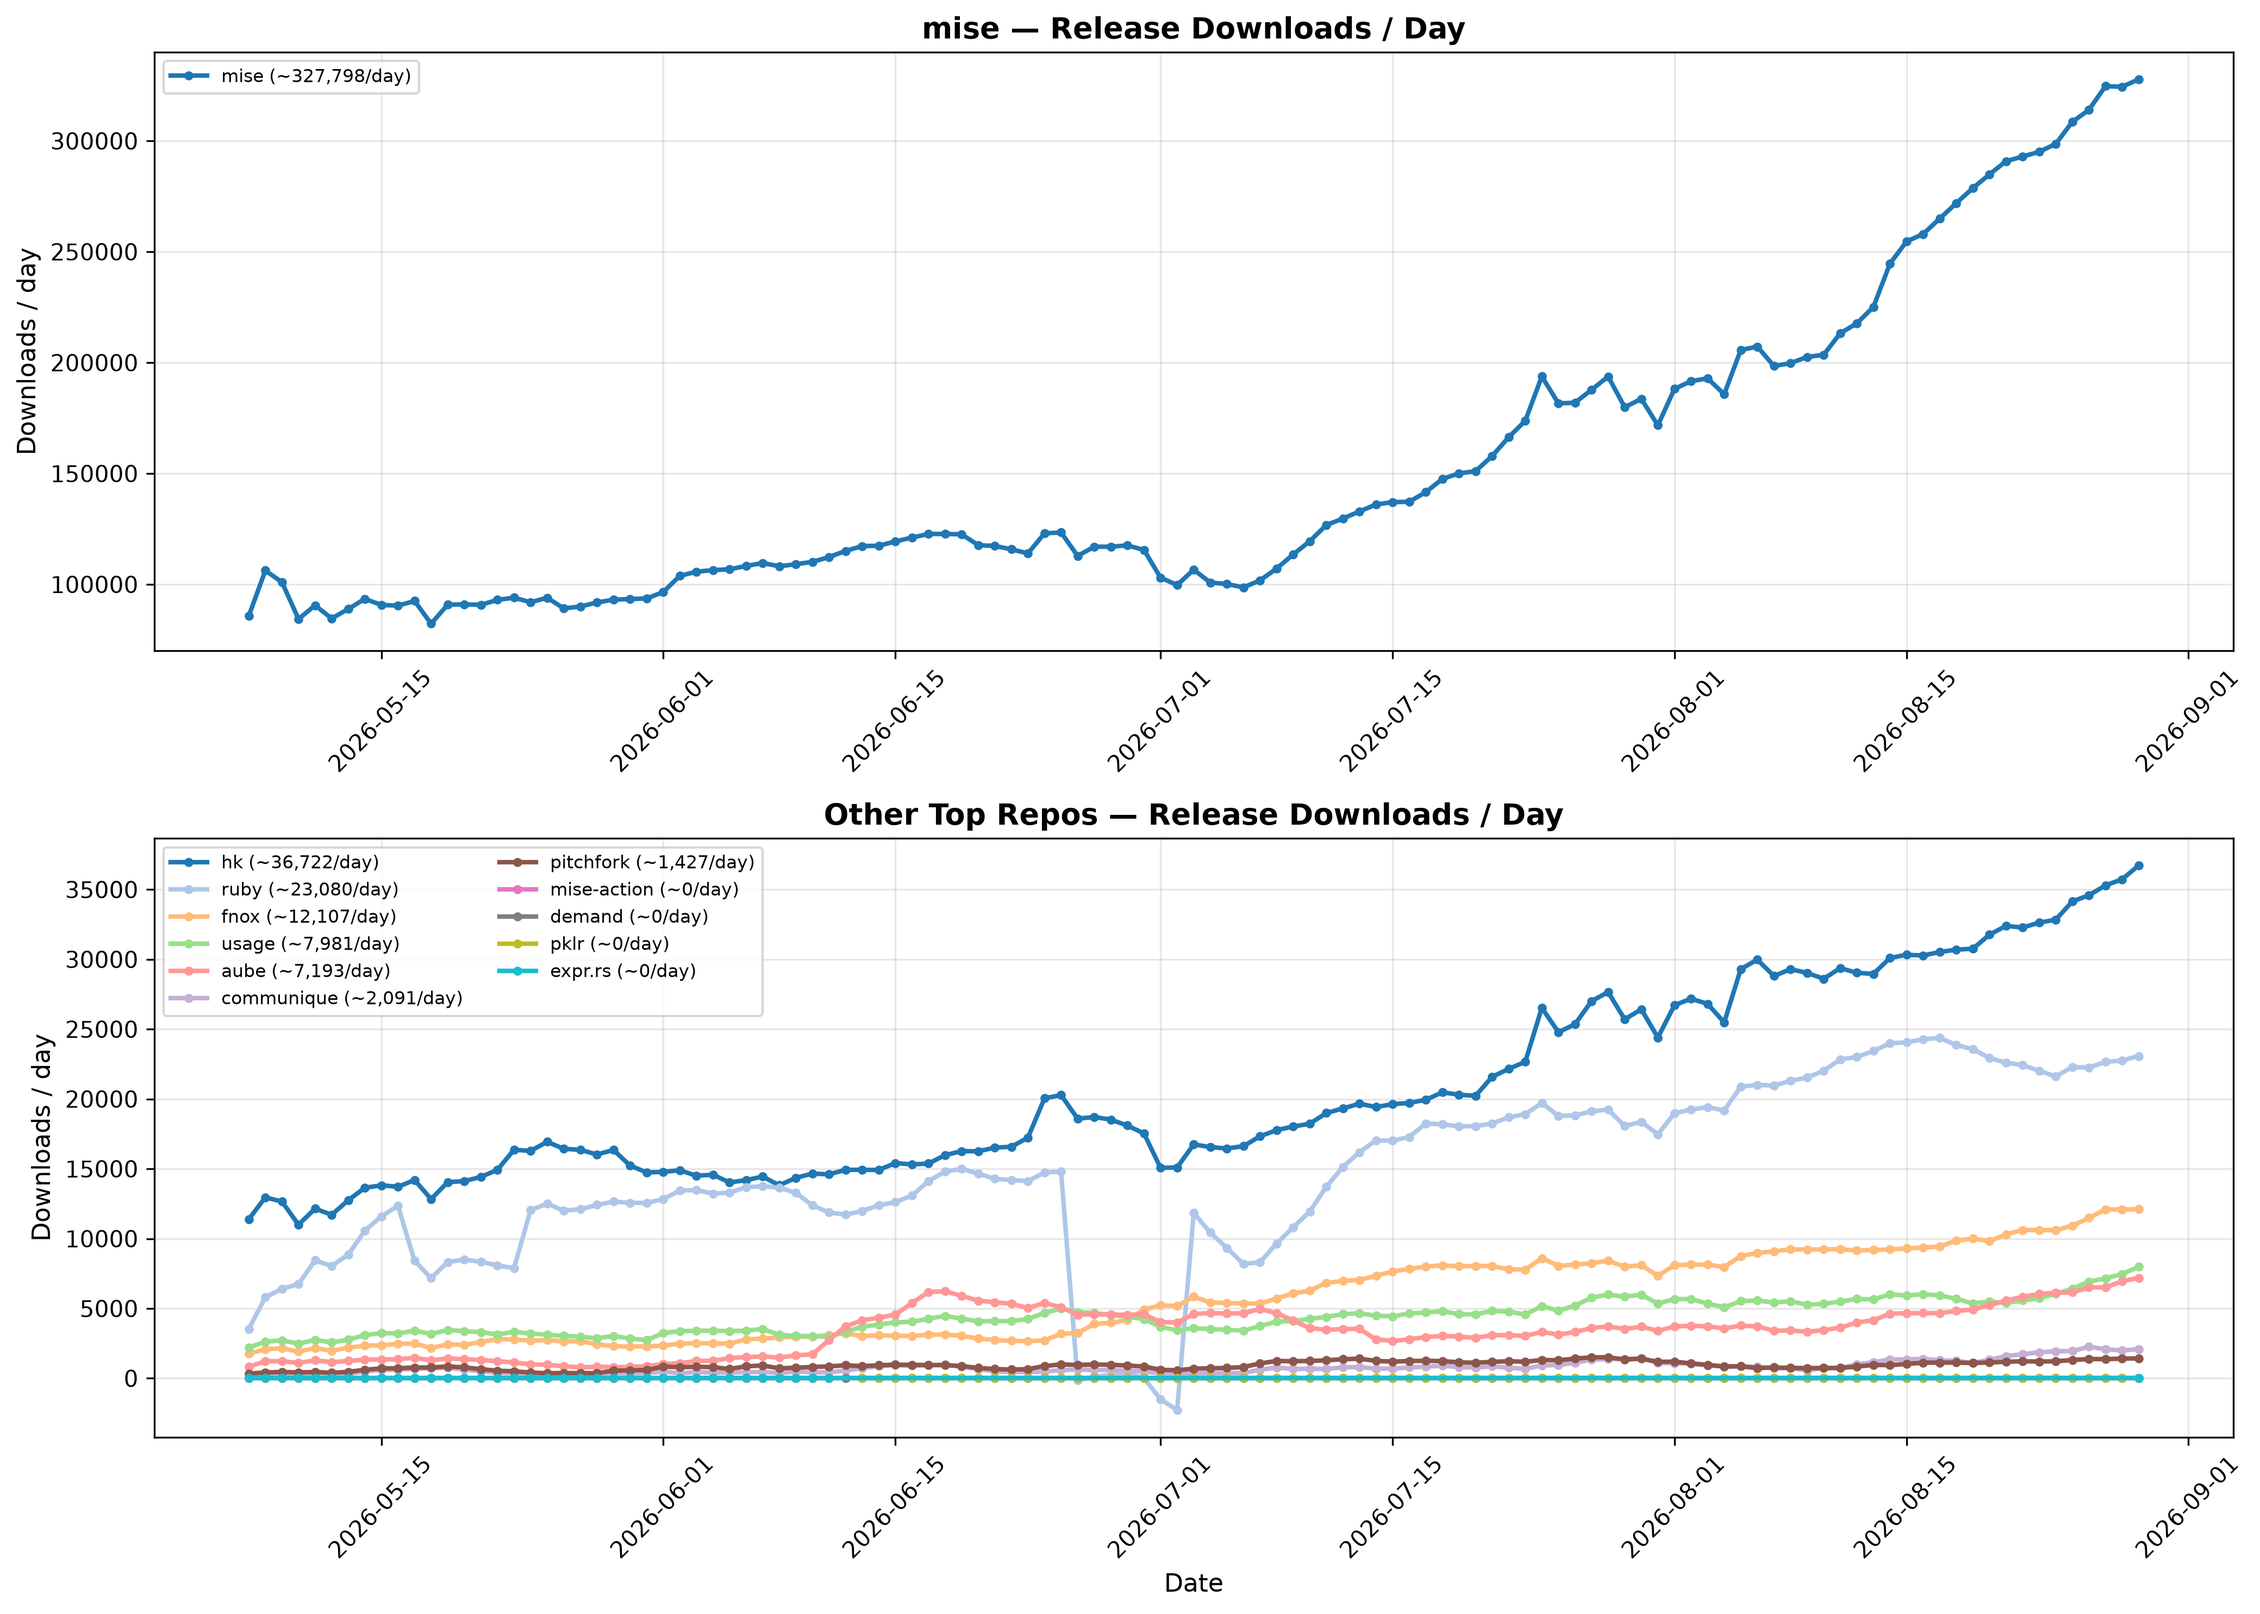
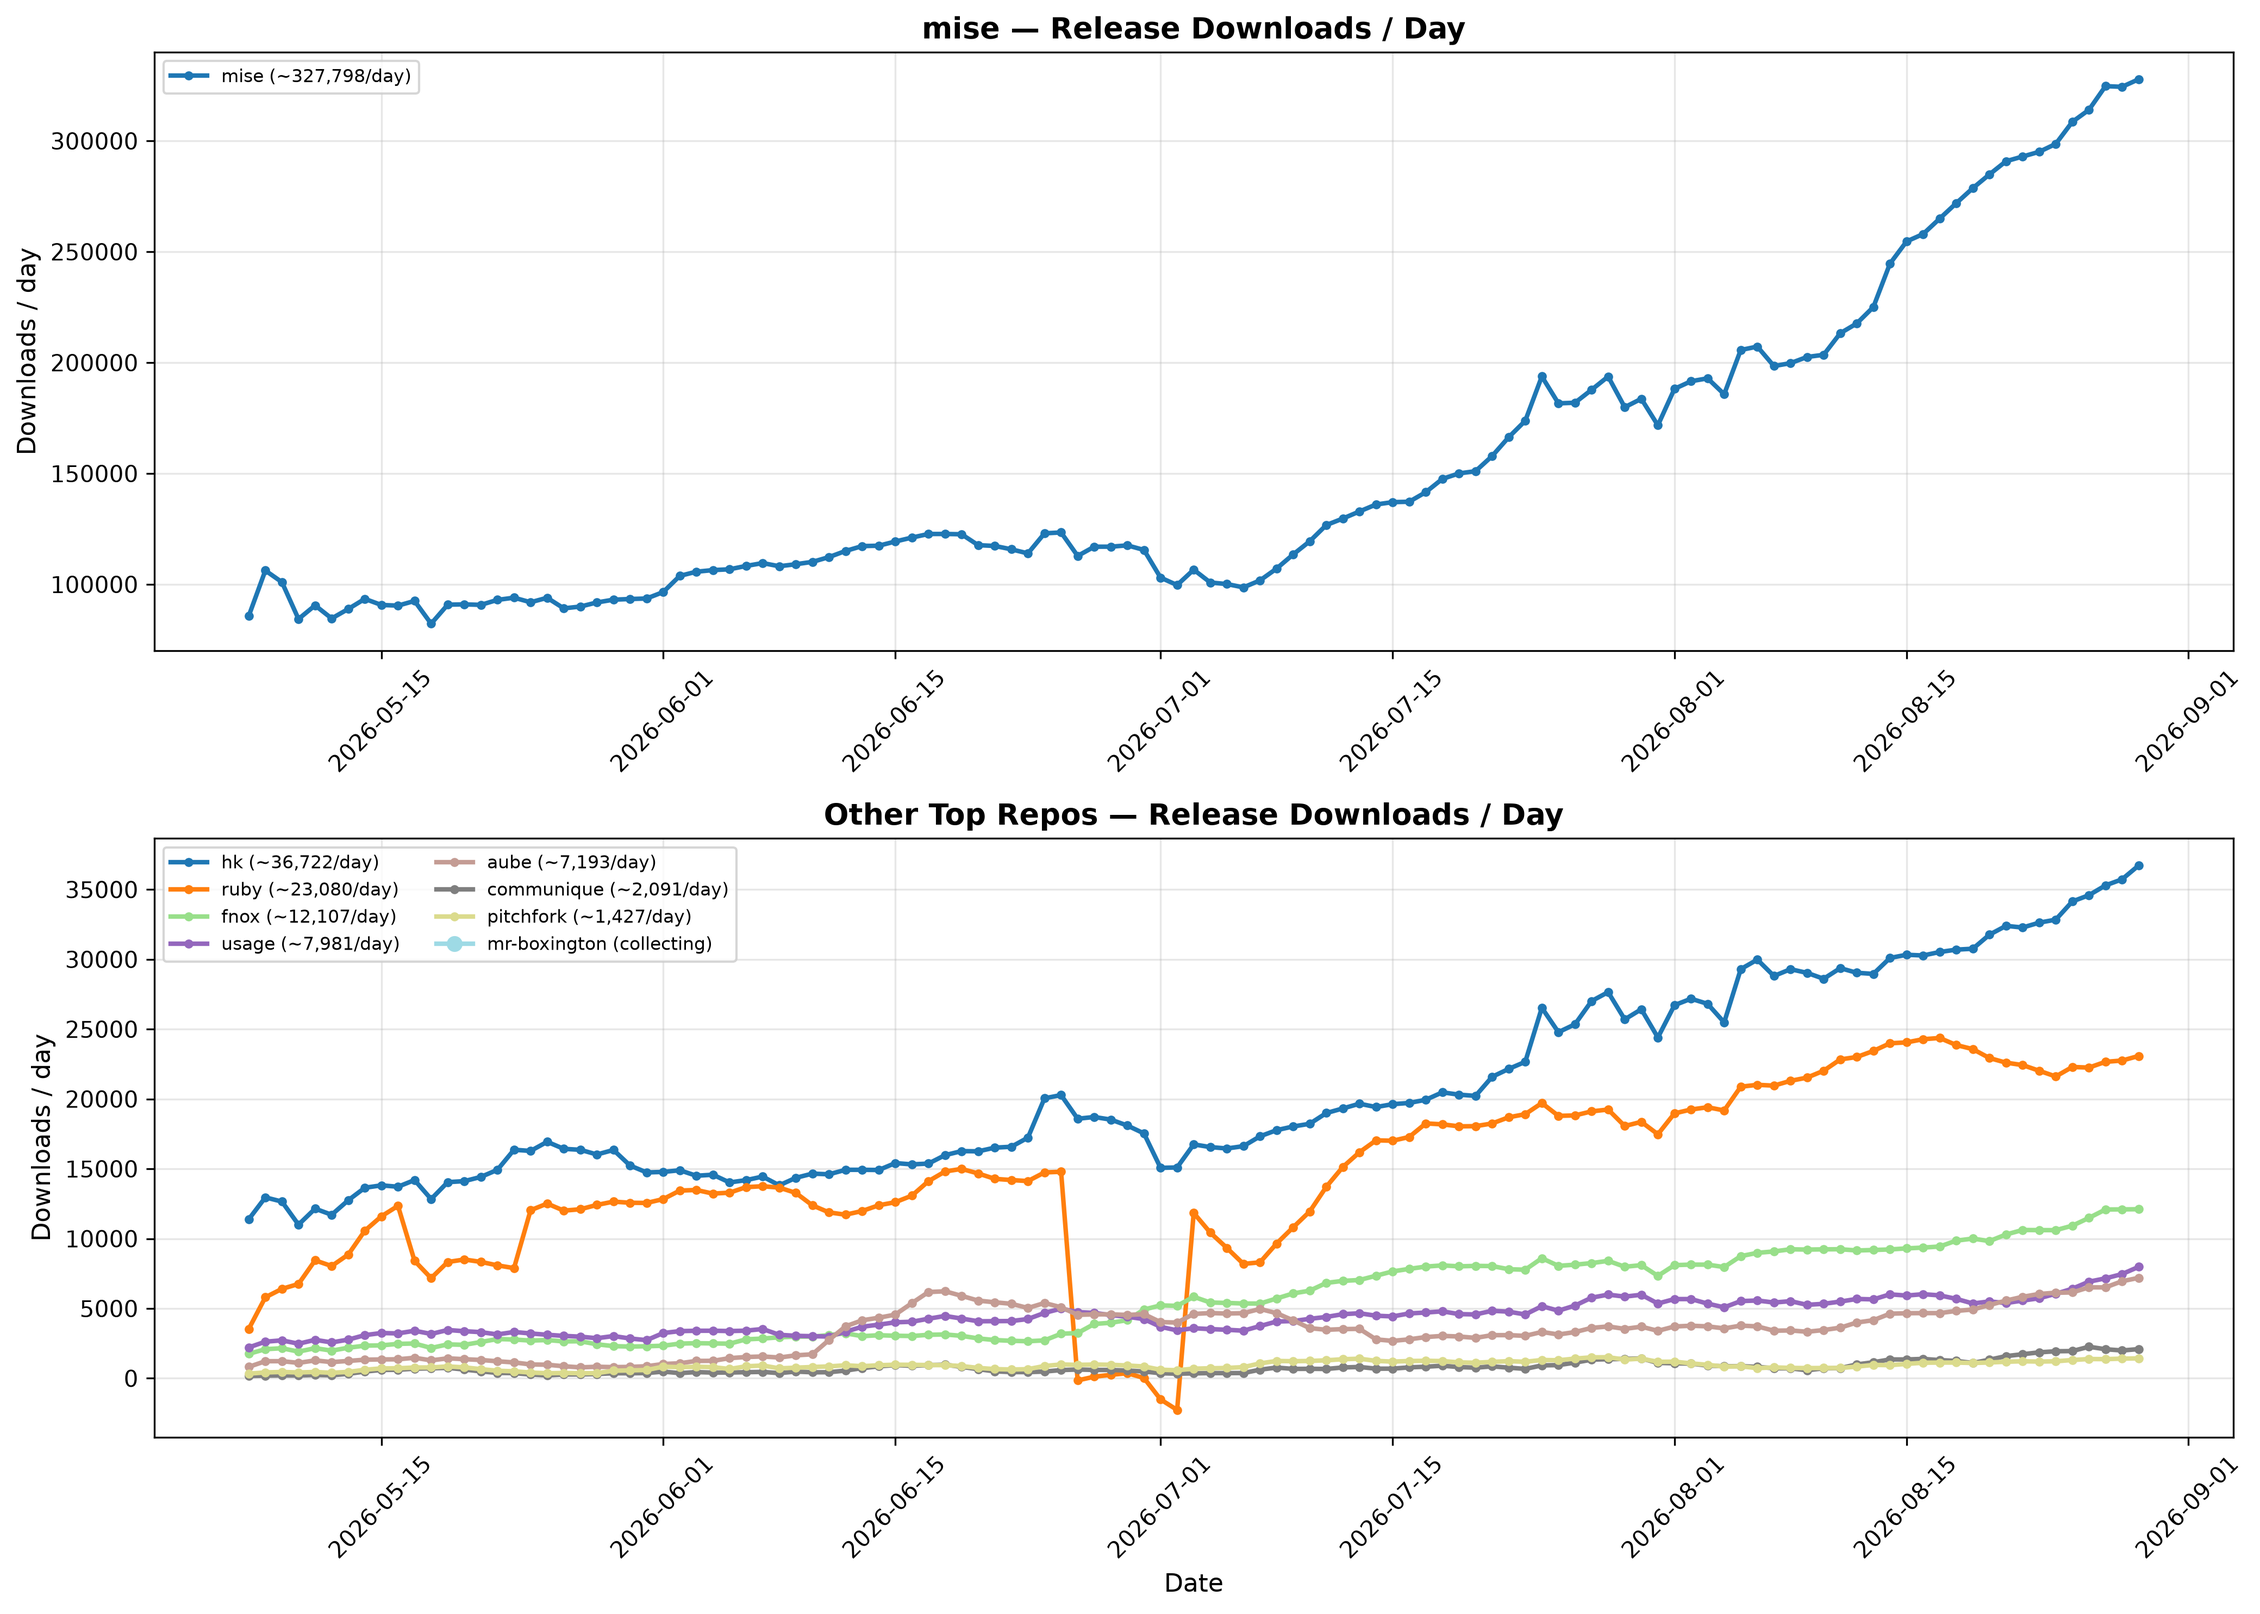
filter repositories without release downloads

diff --git a/mise-tasks/plot-top-repos-downloads.py b/mise-tasks/plot-top-repos-downloads.py
@@ -59,6 +59,15 @@ def plot_panel(ax, repos, df, colors, title):
         repo_data = df[df["repo_name"] == repo]
         v = velocity_for_repo(repo_data)
         if v.empty:
+            ax.plot(
+                [],
+                [],
+                color=colors[idx % len(colors)],
+                label=f"{repo} (collecting)",
+                marker="o",
+                linewidth=2,
+            )
+            plotted_any = True
             continue
         latest = v["velocity"].iloc[-1]
         ax.plot(
@@ -105,7 +114,13 @@ def main():
     tracked = read_tracked_repo_names()
     df = df[df["repo_name"].isin(tracked)]
 
-    others = [r for r in tracked if r != "mise"]
+    latest_rows = df.loc[df.groupby("repo_name")["date"].idxmax()]
+    latest_downloads = latest_rows.set_index("repo_name")["release_downloads"]
+    others = [
+        repo
+        for repo in tracked
+        if repo != "mise" and latest_downloads.get(repo, 0) > 0
+    ]
     latest_velocities = {}
     for repo in others:
         velocity = velocity_for_repo(df[df["repo_name"] == repo])
